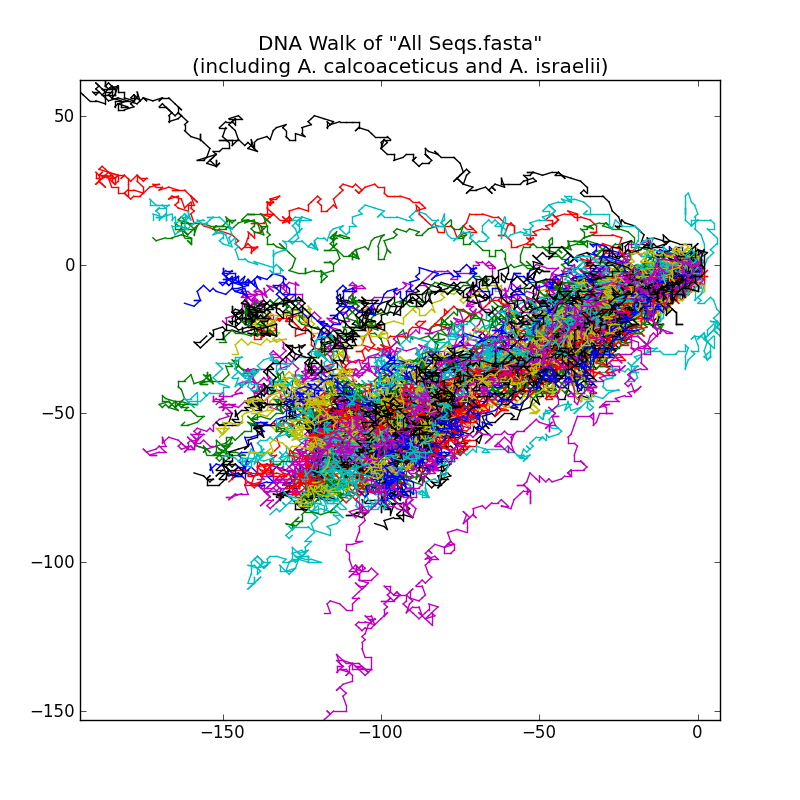
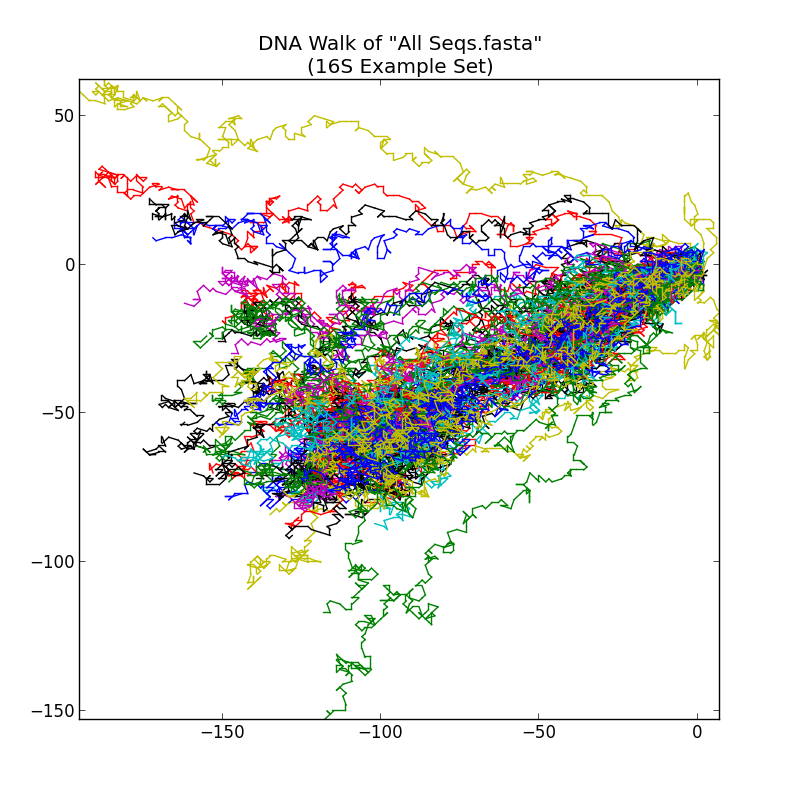
clean up DNA walk code

Changed region(s): [[0.0938, 0.0625, 0.9062, 0.9062]]

diff --git a/VisualizeDnaWalk/dna_walk_utils.py b/VisualizeDnaWalk/dna_walk_utils.py
@@ -11,24 +11,23 @@ lines = open("All seqs.fasta").readlines()
 #name:bases
 TEST_SEQUENCES = {}
 
+# TODO: Abstract/clean up this processing
 name = None
 bases = ""
 for line in lines:
+    # in .fasta files precede each entry name starts with a ">" line, 
+    # and is followed by the sequences
     if line.startswith(">"):
         if name: #store the previous one before we start the new one
             TEST_SEQUENCES[name] = bases
             bases = ""
         name = line.strip(">").strip()
     elif not line.isspace() and len(line) != 0:
+        # Some fasta files can have additional symbols besides GATC; ignore them for now
         bases += line.strip().upper().replace("N", "").replace(" ", "").replace("R", "").replace("Y", "").replace("K", "").replace("S", "")
 
 if name: #store the final one
     TEST_SEQUENCES[name] = bases
-
-
-TEST_BASES_1 = TEST_SEQUENCES["Acinetobacter_calcoaceticus"]
-TEST_BASES_2 = TEST_SEQUENCES["A.israelii"]
-
 
 class Location:
     def __init__(self, x=0, y=0):
@@ -53,6 +52,7 @@ def down(loc):
 
 base_direction_mapping = {"G" : left, "T" : up, "A" : down, "C" : right}
 
+#used for the raw bitmap version of the dna walk
 def do_walk(bases, window, on_window):
     x_min, x_max, y_min, y_max = 0, 0, 0, 0
     for index, base in enumerate(bases):
@@ -68,6 +68,7 @@ def do_walk(bases, window, on_window):
             if not (index % window):
                 img.putpixel((loc.x, loc.y), (0, 0, 255))    
 
+# Used for the matplotlib version of the dna walk
 def do_line_walk(bases, window, on_window, on_base=None):
     x_min, x_max, y_min, y_max = 0, 0, 0, 0
     real_loc = Location(0.0, 0.0)

diff --git a/VisualizeDnaWalk/dna_walk_matplotlib2.py b/VisualizeDnaWalk/dna_walk_matplotlib2.py
@@ -13,13 +13,6 @@ from matplotlib.backends.backend_agg import FigureCanvasAgg
 import dna_walk_utils as walk
 import random
 
-#bases = walk.TEST_BASES_1
-#bases_2 = walk.TEST_BASES_2
-
-#def on_window_print(from_loc, to_loc):
-#    print "%s => %s" % (from_loc, to_loc)
-
-#walk.do_line_walk(bases, 4, on_window_print)
 
 size_in_inches = [8, 8] #width, height
 fig = Figure(figsize=size_in_inches)
@@ -37,16 +30,9 @@ for samplename in walk.TEST_SEQUENCES.keys():
         ax.add_line(Line2D([from_loc.x, to_loc.x],[from_loc.y, to_loc.y], color=clr))
     walk.do_line_walk(bases, 4, on_window, )
 
-
-
-#def on_window_2(from_loc, to_loc):
-#    ax.add_line(Line2D([from_loc.x, to_loc.x],[from_loc.y, to_loc.y], color="m"))
-
-#walk.do_line_walk(bases2, 4, on_window_2)
-
 ax.relim()
 ax.axis('tight')
-ax.set_title('DNA Walk of "All Seqs.fasta"\n(including A. calcoaceticus and A. israelii)')
+ax.set_title('DNA Walk of "All Seqs.fasta"\n(16S Example Set)')
 
 canvas = FigureCanvasAgg(fig)
 canvas.print_figure("dna_walk.png")                 

diff --git a/VisualizeDnaWalk/README.md b/VisualizeDnaWalk/README.md
@@ -1,9 +1,40 @@
 
 
 Script state:
- - [ ] Script short description
+ - [x] Script short description
  - [ ] Script full description
  - [ ] Accepts command line params
- - [ ] Sample inputs
- - [ ] Sample outputs
- - [ ] Commented
+ - [x] Sample inputs
+ - [x] Sample outputs
+ - [x] Commented
+
+ 
+# DNA Walk
+
+Basic idea: map GTAC to left/up/down/right on a 2D surface, and visualize sequence similarity. 
+
+Tons of problems with this idea and trying to infer any meaning from it, but it's fun and maybe useful in some cases.
+
+Apparently repeats the work of http://athena.bioc.uvic.ca/virology-ca-tools/graphdna/. Oh well. 
+
+# Requirements
+
+Written for Python 2.7.x. Requires [matplotlib](http://matplotlib.org/users/installing.html).
+
+# Usage Example
+
+Filename is set in dna_walk_utils.py; by default uses the included "All seqs.fasta" file I had lying around (16S from a bunch of organisms). 
+
+```
+$ dna_walk_matplotlib2.py
+Walking Treponema_pallidum subsp. pertenue 16S ribosomal RNA gene, partial sequence
+Walking Brucella_melitensis strain MY/2009/1483 16S ribosomal RNA gene, partial sequence
+Walking R.rickettsii 16S rRNA gene, partial sequence
+Walking gnl|ECOLI|EG30084 rrsA "RRSA-RRNA" 4033554..4035095 Escherichia coli K-12 substr. MG1655
+Walking Clostridium_botulinum
+Walking Staphylococcus_intermedius gene for 16S rRNA, partial sequence, strain: ATCC 29663 (= MAFF 911388)
+Walking Salmonella_enterica_typhi subsp. enterica serovar Typhi strain SS 02 16S ribosomal RNA gene, partial sequence
+Walking Mycobacterium_intracellulare 16S rRNA gene
+Walking Streptococcus_gordonii 16S rRNA gene
+<etc, etc>
+```
